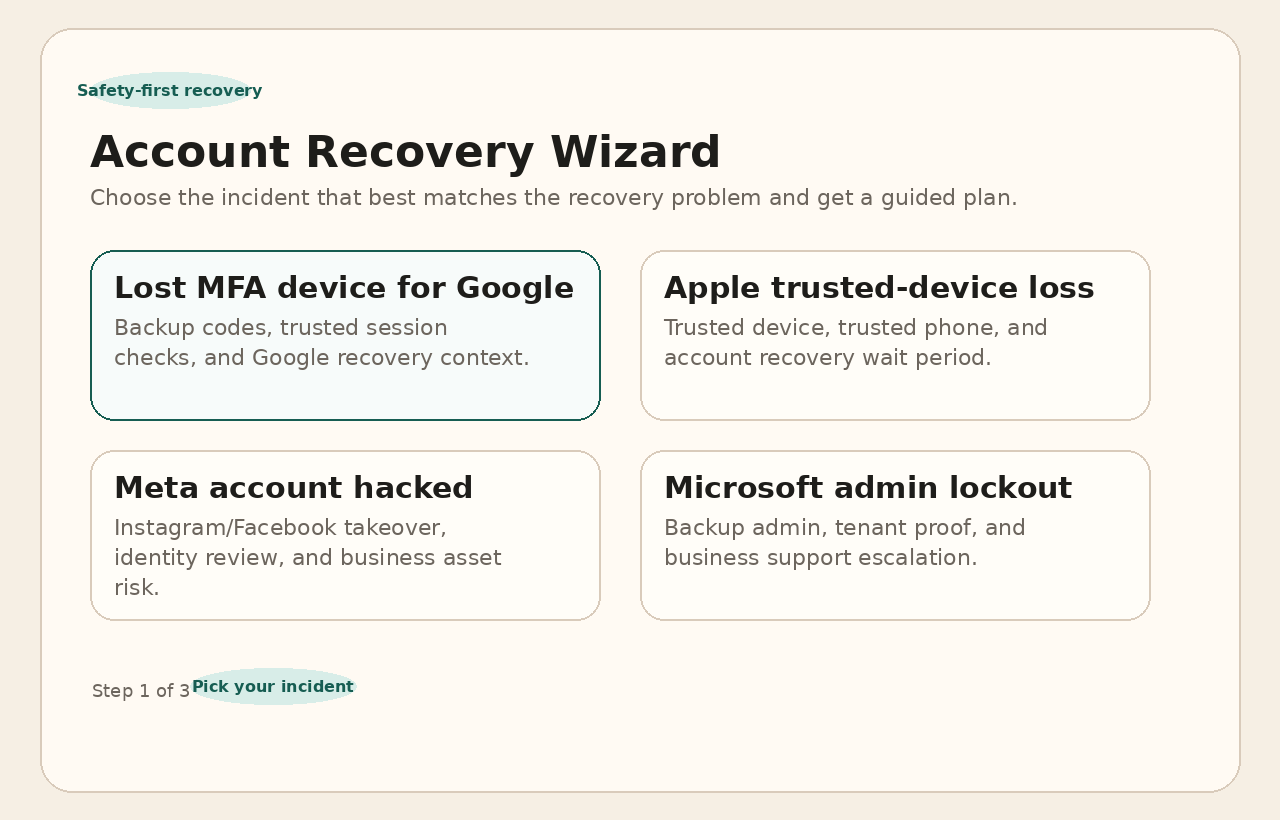
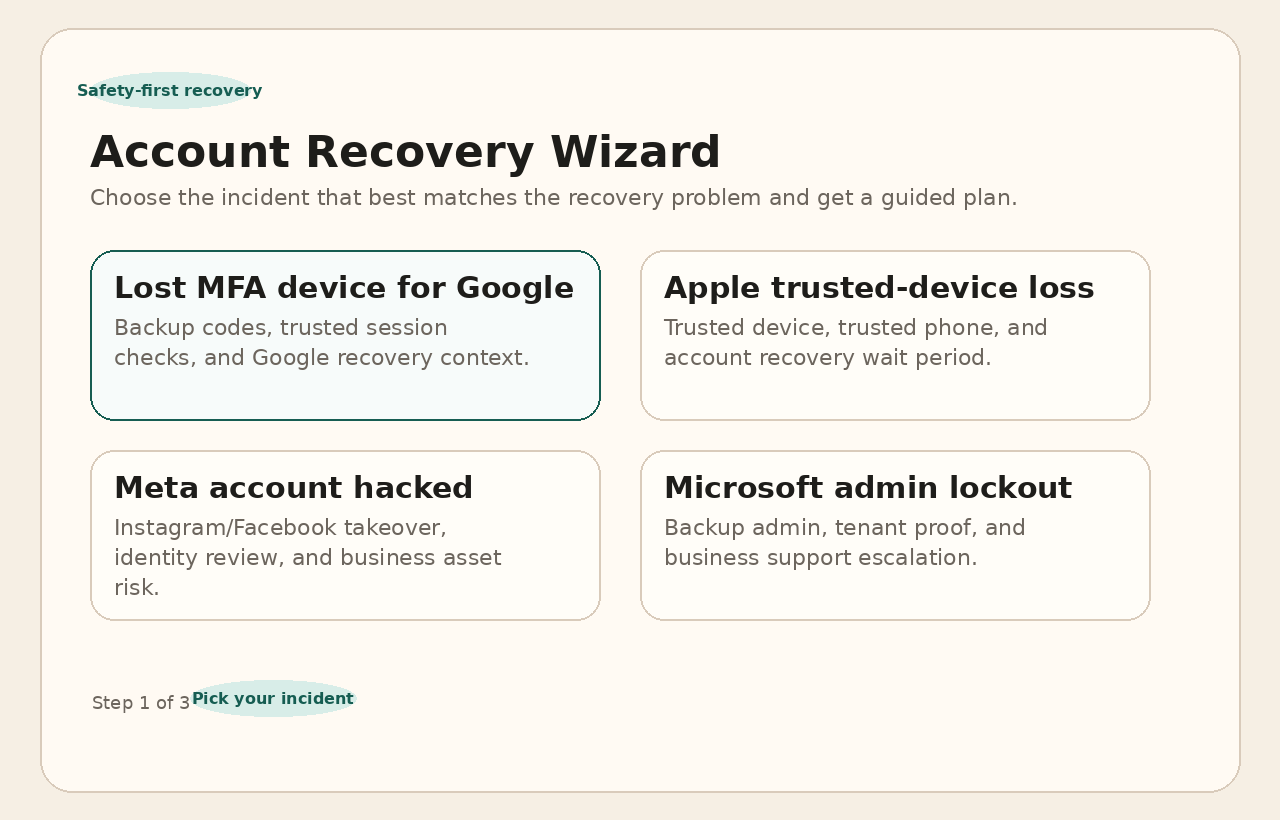
docs: tune demo gif timing and layout

Changed region(s): [[0.0625, 0.7927, 0.2812, 0.8841]]

diff --git a/scripts/make_demo_gif.py b/scripts/make_demo_gif.py
@@ -111,8 +111,8 @@ def frame_incident_picker() -> Image.Image:
     card(draw, (640, 250, 1150, 420), "Apple trusted-device loss", "Trusted device, trusted phone, and account recovery wait period.")
     card(draw, (90, 450, 600, 620), "Meta account hacked", "Instagram/Facebook takeover, identity review, and business asset risk.")
     card(draw, (640, 450, 1150, 620), "Microsoft admin lockout", "Backup admin, tenant proof, and business support escalation.")
-    draw.text((92, 680), "Step 1 of 3", font=SMALL, fill=MUTED)
-    pill(draw, (190, 668, 356, 704), "Pick your incident")
+    draw.text((92, 692), "Step 1 of 3", font=SMALL, fill=MUTED)
+    pill(draw, (190, 680, 356, 716), "Pick your incident")
     return image
 
 
@@ -133,8 +133,8 @@ def frame_questionnaire() -> Image.Image:
         draw.text((112, y + 18), label, font=BODY, fill=INK)
         pill(draw, (850, y + 16, 1120, y + 52), answer, fill=ACCENT_SOFT, text_fill=ACCENT)
         y += 88
-    draw.text((92, 734), "Step 2 of 3", font=SMALL, fill=MUTED)
-    pill(draw, (190, 722, 428, 758), "Answer the questionnaire")
+    draw.text((92, 744), "Step 2 of 3", font=SMALL, fill=MUTED)
+    pill(draw, (190, 732, 428, 768), "Answer the questionnaire")
     return image
 
 
@@ -177,7 +177,7 @@ def frame_meta_warning() -> Image.Image:
     draw_header(draw, "The wizard also surfaces freshness warnings and business-asset risk where recovery quality is less certain.")
     checklist_panel(
         draw,
-        (90, 248, 1190, 360),
+        (90, 248, 1190, 376),
         "Needs Review Warning",
         [
             "This Meta incident record is marked needs_review.",
@@ -205,7 +205,7 @@ def main() -> None:
         gif_path,
         save_all=True,
         append_images=frames[1:],
-        duration=[1400, 1400, 1700, 1800],
+        duration=[4200, 4200, 5100, 5400],
         loop=0,
         optimize=True,
     )